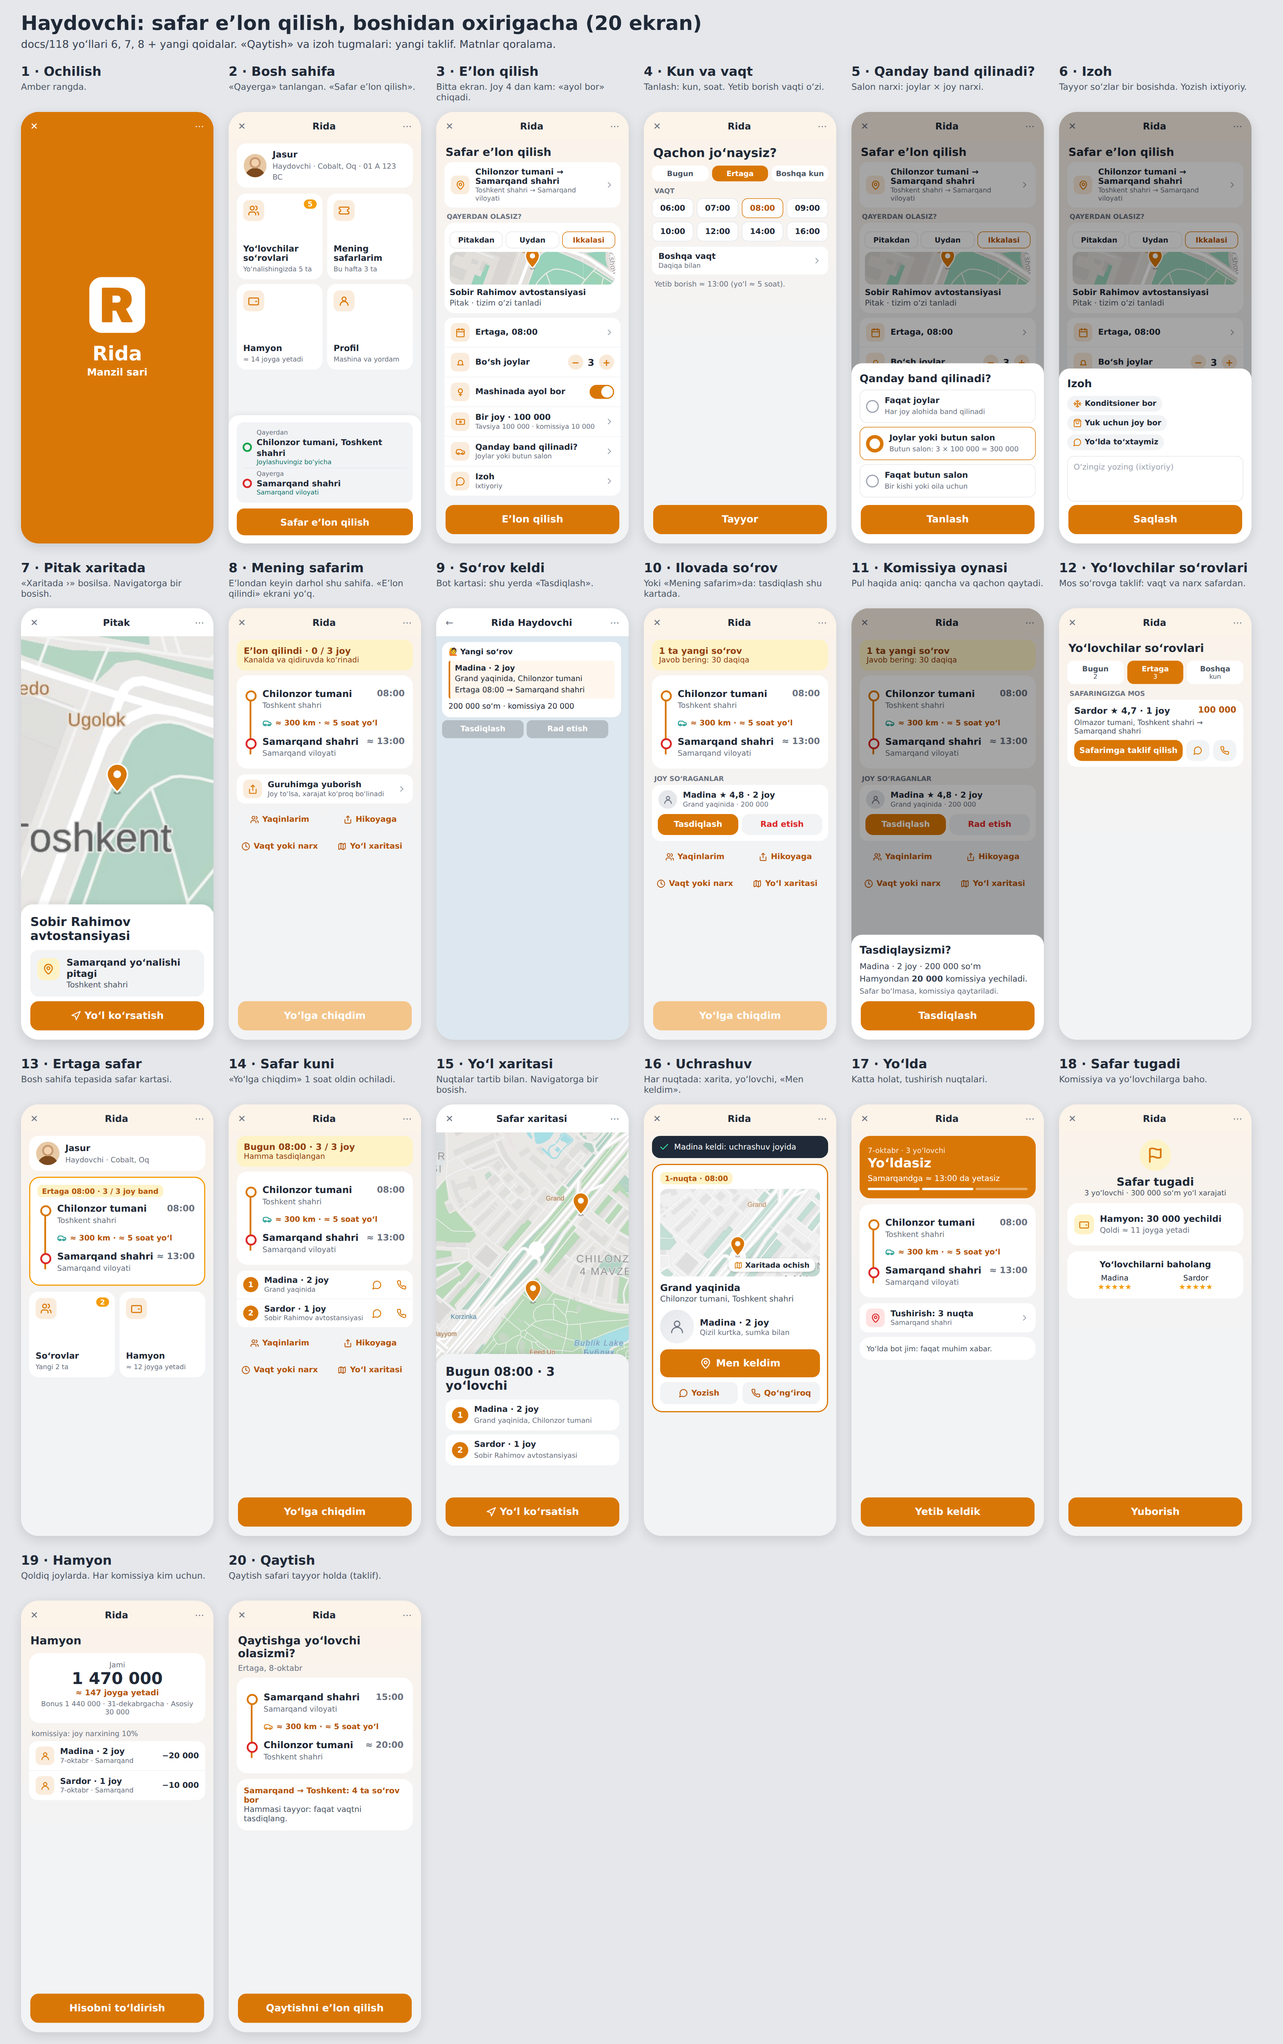
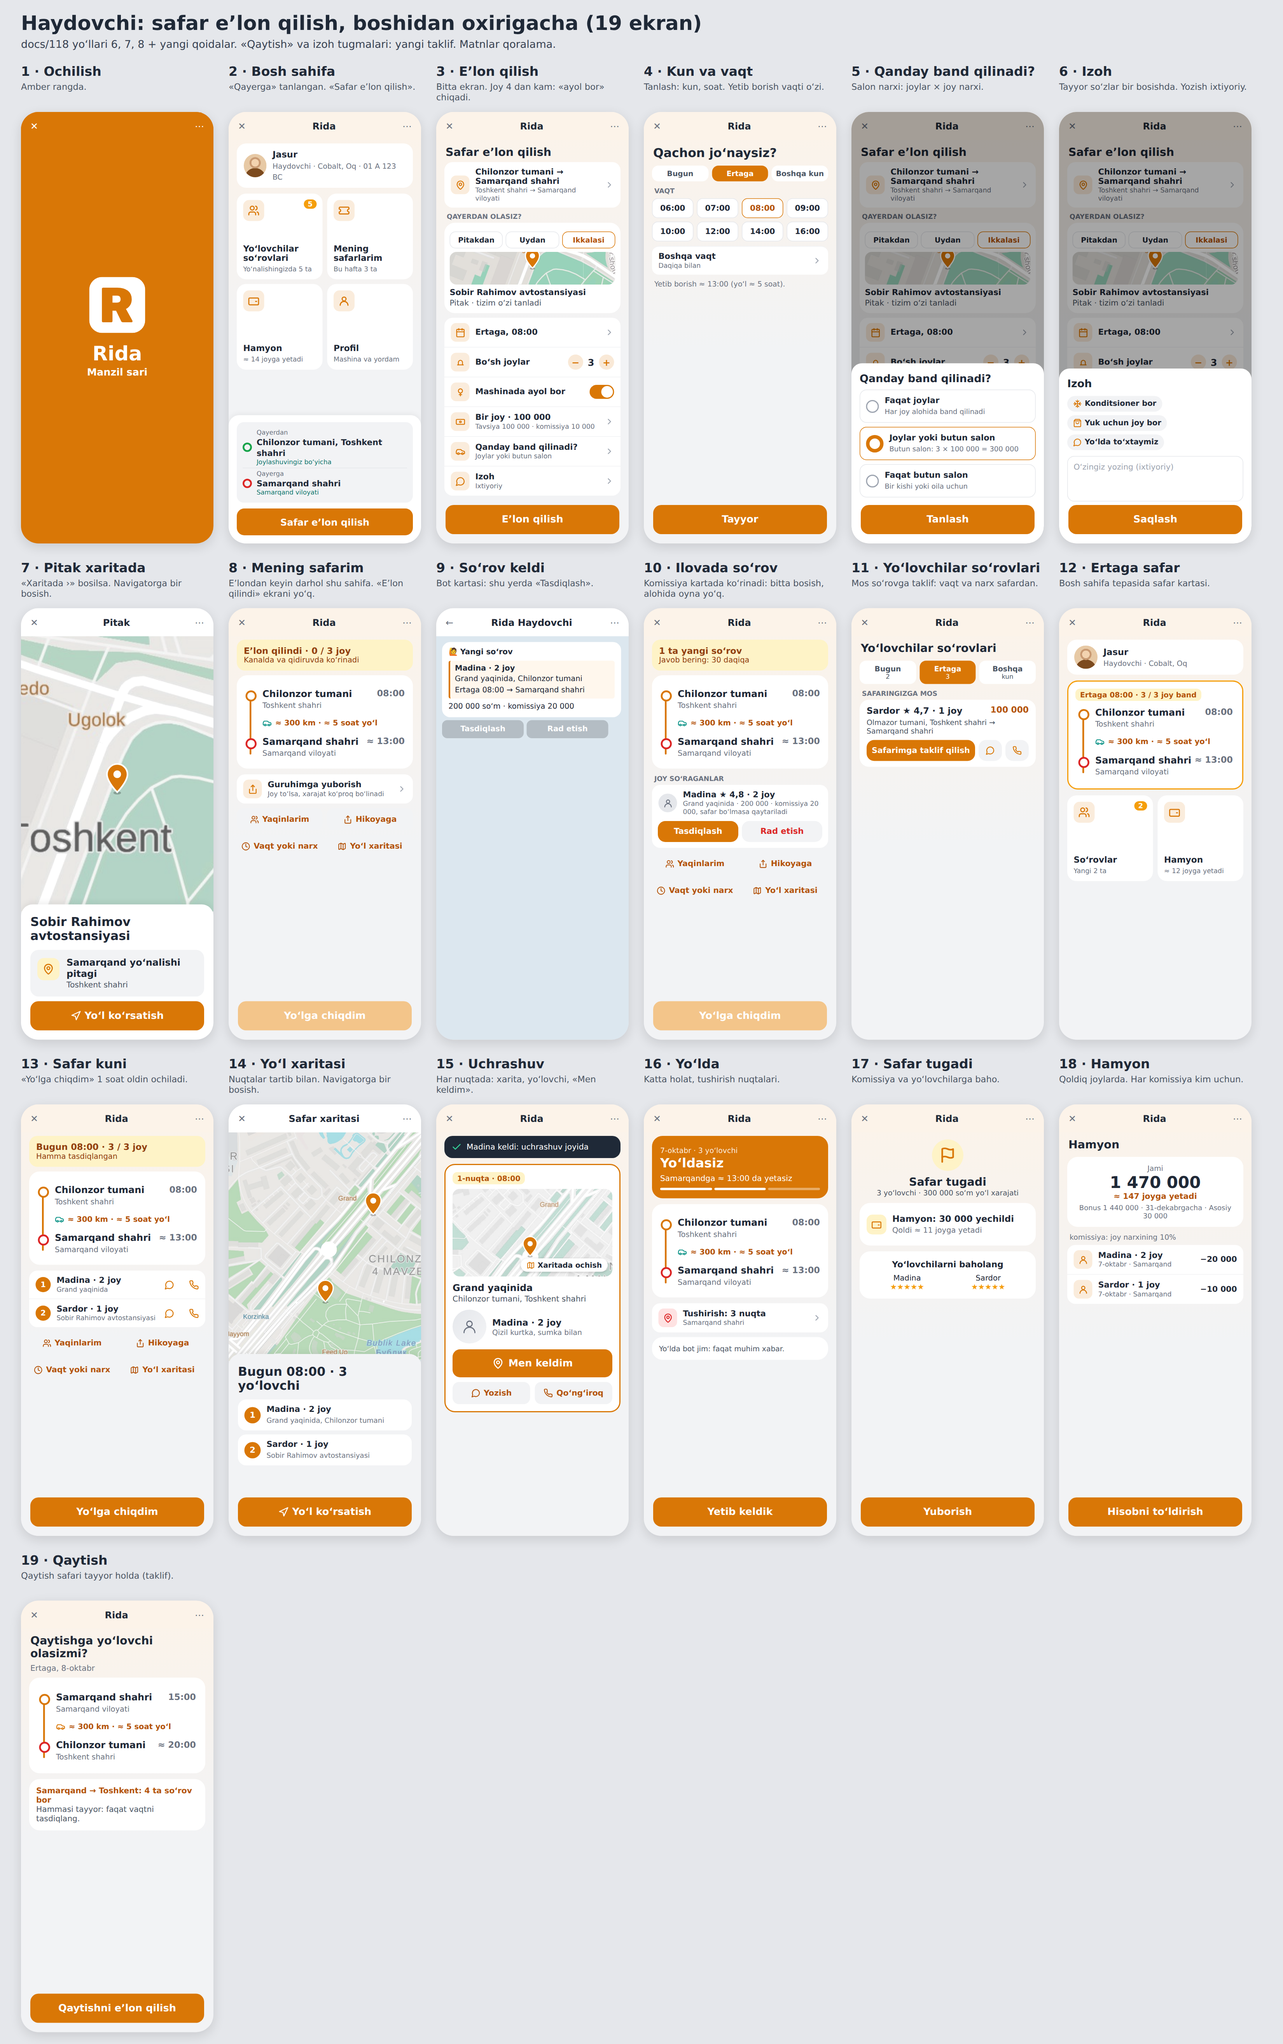
docs(126): map and meeting approved; journeys as reference in goals; driver sheet without commission window
Claude-Session: https://claude.ai/code/session_017FSsNw3bjZgBbKY1ueaesh

diff --git a/docs/126-map-and-meeting.md b/docs/126-map-and-meeting.md
@@ -1,0 +1,49 @@
+# 126. Карта и встреча: пересмотр 06.10.2026
+
+> **Кратко:** решение владельца 06.10.2026. Большая карта только там, где нужна точка; в остальных местах маленькая карта; главная боль: момент встречи. Пять улучшений: карточка встречи, своя карта Rida, место без печати, район до брони, линия пути. Макеты: `goals/g59/9-map-and-preview.png`, `10-map-five-ideas.png`. Карта и данные: `67`.
+
+## Экран карты (большой)
+
+- Поиск сверху «Joy nomini yozing» (без обрезки, `121`); булавка цвета Mini App в центре; кнопка «Joylashuvim» с иконкой у края карты.
+- Шторка снизу: заголовок («Qayerdan olib ketsin?», «Qayerda tushasiz?»), место по правилу маршрута: ориентир, ниже «район, город или область» (`121`).
+- Кнопка говорит, что будет: «Shu yerdan olib ketsin», «Shu yerda tushaman».
+- Полоска загрузки сверху, пока карта грузится (`121` §3).
+
+## Место без печати
+
+- «Uyim» и «Ishxonam»: сохраняются один раз, дальше одно касание.
+- «Yaqin joylar»: 3 … 5 известных мест рядом (метро, базар, магазин) из индекса поиска (G23); на высадке «Oxirgi joylar».
+
+## Маленькая карта
+
+- Где: место подтверждено (точка встречи, «Xaritada», «Yoʻl koʻrsatish»), экран близких, пятак у водителя, публикация.
+- Касание открывает большую карту.
+- **До брони** на маленькой карте только круг района и «Aniq joy band qilingandan keyin koʻrinadi» (`69`).
+- Как рисовать: Claude проверяет до кода картинку с сервера (лимиты Cloudflare, `117`). Если нельзя: MapLibre без движения, это расширение исключения `19`, нужно согласие владельца.
+
+## Карточка встречи (день поездки)
+
+- За 30 минут до выезда сверху главного экрана: время, маленькая карта, место, фото машины (из заявки водителя) и крупный номер.
+- «Men keldim» у обеих сторон: другая сторона получает шторку «Jasur keldi» (`122`) с точкой.
+- У водителя на каждой точке: попутчик, «Men keldim», потом «Keldi / Kelmadi» (`124` В).
+- Живой машины на карте нет: это похоже на такси (урок №2); вернёмся после запуска, если цифры покажут, что люди не находят друг друга.
+
+## Своя карта Rida
+
+- Свой стиль Protomaps (цвета из токенов бренда, `20`): спокойные цвета, крупные подписи, только латиница (вместе с G48), пятаки значком Rida.
+- Только настройка `map-style.ts`, новых сервисов нет; второй бренд получает свой стиль сам (`22`).
+
+## Линия пути
+
+- Поездка в другой город: не карта, а линия «Chilonzor tumani, Toshkent shahri 08:00 ● ≈ 300 km · ≈ 5 soat yoʻl ● Samarqand shahri ≈ 13:00».
+- Везде, где карточка поездки: «Safar», бронь, «Yoʻlda», публикация водителя.
+
+## Цели
+
+| Что | Цель |
+|---|---|
+| Экран карты, место без печати, район до брони, линия пути | G59 |
+| Маленькая карта на брони и у близких, карточка встречи попутчика | G60 |
+| Пятак на маленькой карте, встреча у водителя | G63 |
+| Карточка встречи на главном | G66 |
+| Свой стиль карты | G59 (вместе с G48) |

diff --git a/docs/118-registration-redesign.md b/docs/118-registration-redesign.md
@@ -143,3 +143,4 @@
 - То же устройство, янтарный цвет (макет `goals/g66/2-driver-home.png`): профиль с машиной и номером; карточка «что сейчас»; 4 плитки; внизу «Qayerdan / Qayerga» и «Safar eʼlon qilish» (открывает публикацию пути 6 с маршрутом).
 - Плитки: «Yoʻlovchilar soʻrovlari» (число по его направлениям), «Mening safarlarim» (поездки за неделю), «Hamyon» («≈ N joyga yetadi», красная меньше 5 мест), «Profil» (там же «Yordam»). Плитка «Safar eʼlon qilish» убрана.
 - Состояния: заявка на проверке (плашка, «bonus kutmoqda» в «Hamyon» (бонус после одобрения, `12`), кнопка «Tekshiruvdan keyin ochiladi»); поездка завтра (места, «N yangi soʻrov»); день поездки (большая карточка, «Yoʻlga chiqdim»). Строки «стать попутчиком» нет.
+- Эталоны полных путей и тексты макетов 06.10 приняты владельцем 06.10.2026 (`126`, `124`); перед кодом тексты проверяет носитель (`25`).

diff --git a/docs/INDEX.md b/docs/INDEX.md
@@ -128,4 +128,5 @@
 | 123 | [123-growth-and-education.md](123-growth-and-education.md) | Рост и обучение: петли роста, видео-инструкции, подсказки по шагу, Instagram (G69, G70) |
 | 124 | [124-redesign-gaps.md](124-redesign-gaps.md) | Дыры пересмотра экранов: около 100 по 14 темам, совет по каждой |
 | 125 | [125-redesign-contradictions.md](125-redesign-contradictions.md) | Противоречия между документами после пересмотра: 17 правок и 14 решений владельца |
+| 126 | [126-map-and-meeting.md](126-map-and-meeting.md) | Карта и встреча: экран карты, маленькая карта, карточка встречи, своя карта, линия пути |
 | goals | [goals/INDEX.md](goals/INDEX.md) | Цели по порядку: путь к запуску (G01 … G22, OPS) |

diff --git a/docs/goals/G59-search-and-book.md b/docs/goals/G59-search-and-book.md
@@ -37,6 +37,9 @@ Definition of Done
     с 3 способами; кнопка канала на странице направления сайта.
 [ ] Правила docs/121: ничего не обрезается (320/375/430 px), одинаковые
     размеры; маршрут «район, область, место, ориентир».
+[ ] Карта docs/126: новый экран карты, «Uyim», «Yaqin joylar», круг
+    района до брони, линия пути, свой стиль карты. Эталон пути:
+    goals/g59/11-journey-passenger.png (все 18 экранов).
 [ ] Новые тексты по ключам перевода, согласие владельца; knip и
     проверка ключей чисты.
 [ ] Тест на каждый пункт, сначала падает; e2e поиска и брони.

diff --git a/CLAUDE.md b/CLAUDE.md
@@ -182,4 +182,5 @@ Mini App, каналах, уведомлениях и лендинге. Код: 
 | `docs/123-growth-and-education.md` | Рост и обучение: петли, инструкции, подсказки по шагу, Instagram |
 | `docs/124-redesign-gaps.md` | Дыры пересмотра экранов по темам и совет по каждой |
 | `docs/125-redesign-contradictions.md` | Противоречия между документами и что решает владелец |
+| `docs/126-map-and-meeting.md` | Карта и встреча: экран карты, маленькая карта, карточка встречи, линия пути |
 | `docs/goals/INDEX.md` | Цели по порядку (G01 … G20) и операционные цели владельца (OPS) |

diff --git a/docs/goals/G63-publish-trip.md b/docs/goals/G63-publish-trip.md
@@ -28,6 +28,9 @@ Definition of Done
     «Havolani yoʻlovchilarga yuborish» (docs/119).
 [ ] Правила docs/121: ничего не обрезается (320/375/430 px), одинаковые
     размеры; маршрут «район, область, место, ориентир».
+[ ] docs/126: пятак на маленькой карте, встреча у водителя («Men
+    keldim», «Keldi / Kelmadi»). Эталон пути:
+    goals/g63/4-journey-driver.png (без окна комиссии).
 [ ] Новые тексты по ключам перевода, согласие владельца; knip и
     проверка ключей чисты.
 [ ] Тест на каждый пункт, сначала падает; e2e публикации, ответа на

diff --git a/docs/goals/G66-home-screens.md b/docs/goals/G66-home-screens.md
@@ -37,6 +37,7 @@ Definition of Done
     без кнопки, сам переходит; минимум 0,6 с; ошибка и офлайн; app_ready.
 [ ] Фон docs/121 §5 на всех экранах трёх Mini App: градиент A из токенов,
     шапка и низ Telegram в цвет краёв градиента, снимки.
+[ ] Карточка встречи на главном за 30 минут до выезда (docs/126).
 [ ] Новые тексты по ключам перевода, согласие владельца; knip чист.
 [ ] Тест на каждый пункт, сначала падает; e2e главных экранов.
 [ ] Стенд 3 раза зелёный; снимки Android и iOS как на макетах.

diff --git a/docs/goals/G60-booking-and-chat.md b/docs/goals/G60-booking-and-chat.md
@@ -28,6 +28,8 @@ Definition of Done
     отправки убран.
 [ ] Правила docs/121: ничего не обрезается (320/375/430 px), одинаковые
     размеры; маршрут «район, область, место, ориентир».
+[ ] docs/126: маленькая карта встречи на брони и у близких,
+    карточка встречи «Men keldim»; состояния docs/124 А, Б, И.
 [ ] Новые тексты по ключам перевода, согласие владельца; knip и
     проверка ключей чисты.
 [ ] Тест на каждый пункт, сначала падает; e2e брони, чата, звонка,

diff --git a/docs/goals/G64-requests-and-trips.md b/docs/goals/G64-requests-and-trips.md
@@ -24,6 +24,7 @@ Definition of Done
     фильтром, «Ertaga shu safar», метки, итог месяца.
 [ ] Правила docs/121: ничего не обрезается (320/375/430 px), одинаковые
     размеры; маршрут «район, область, место, ориентир».
+[ ] Эталон ответа на заявки: goals/g64/7-journey-offers.png (6 экранов).
 [ ] Новые тексты по ключам перевода, согласие владельца; knip и
     проверка ключей чисты.
 [ ] Тест на каждый пункт, сначала падает; e2e предложения в списке,

diff --git a/docs/goals/G61-passenger-request.md b/docs/goals/G61-passenger-request.md
@@ -25,6 +25,7 @@ Definition of Done
 [ ] «Mening soʻrovim»: блок «Kutayotganda» с каналом (docs/119).
 [ ] Правила docs/121: ничего не обрезается (320/375/430 px), одинаковые
     размеры; маршрут «район, область, место, ориентир».
+[ ] Эталон пути заявки: goals/g61/4-journey-request.png (10 экранов).
 [ ] Новые тексты по ключам перевода, согласие владельца; knip и
     проверка ключей чисты.
 [ ] Тест на каждый пункт, сначала падает; e2e заявки, предложения
